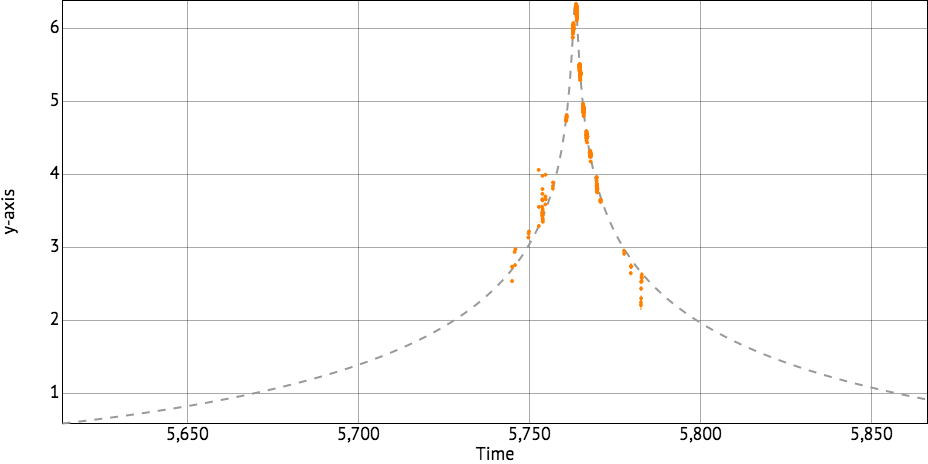
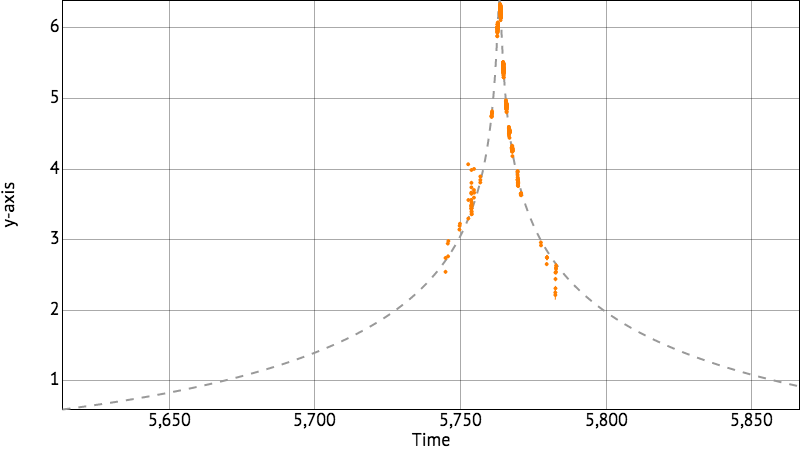
Make first example the size defined in the JSON

diff --git a/index.html b/index.html
@@ -63,8 +63,8 @@
 						<p>First we embed a screenshot as an <code>img</code> so that a static version exists if interactivity fails. Next we create a <code>TimeSeries</code> Javascript object with some <code>Vega JSON</code> and then initialise it with the container of the <code>img</code> element. The <code>TimeSeries</code> then replaces the contents of the container with an interactive version.</p>
 						<div class="example">
 							<figure>
-								<div id="example1" style="width:100%;">
-									<img src="data/OB110462-simple-big.png" style="width:100%;" />
+								<div id="example1">
+									<img src="data/OB110462-simple-big.png" />
 								</div>
 								<figcaption>This plot represents observations of a gravitational <a href="http://lcogt.net/book-page/gravitational-microlensing">microlensing</a> event. Orange points show data from the Danish 1.54m telescope. The dashed line shows a model of the event. The timeseries is created from inline JSON.</figcaption>
 							</figure>
@@ -155,7 +155,7 @@
 
 							S(document).ready(function(){
 
-								var ex1 = new TimeSeries(json,{'logging':true,'showaswego':false,'fit':true});
+								var ex1 = new TimeSeries(json,{'logging':true,'showaswego':false});
 								ex1.initialize(document.getElementById('example1'));
 
 							});
